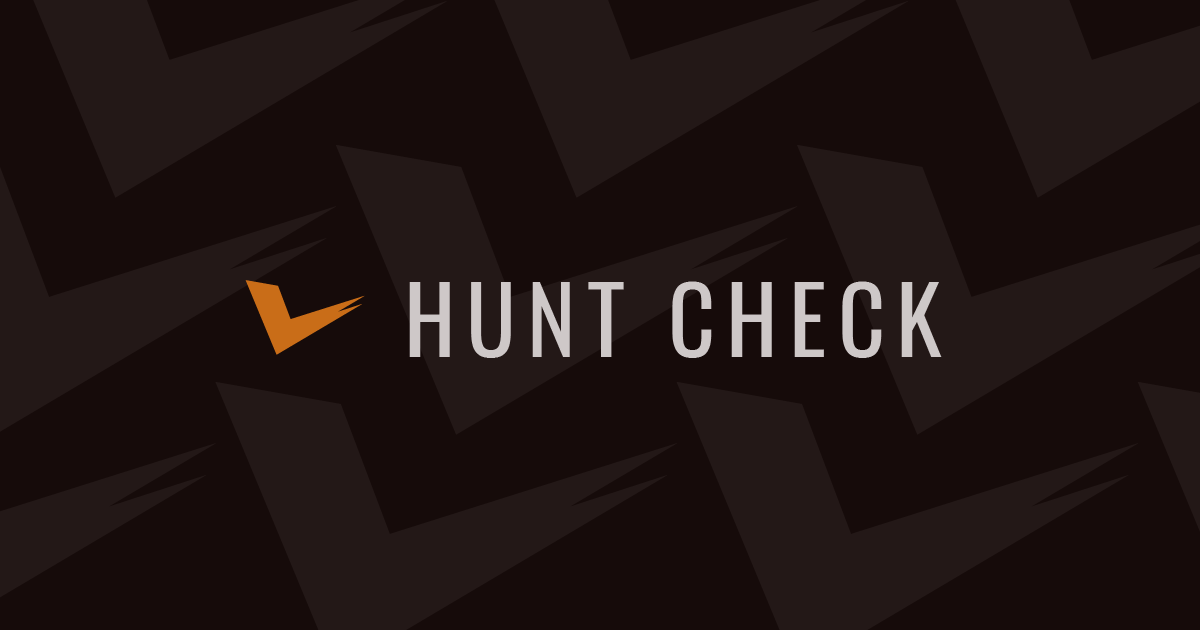
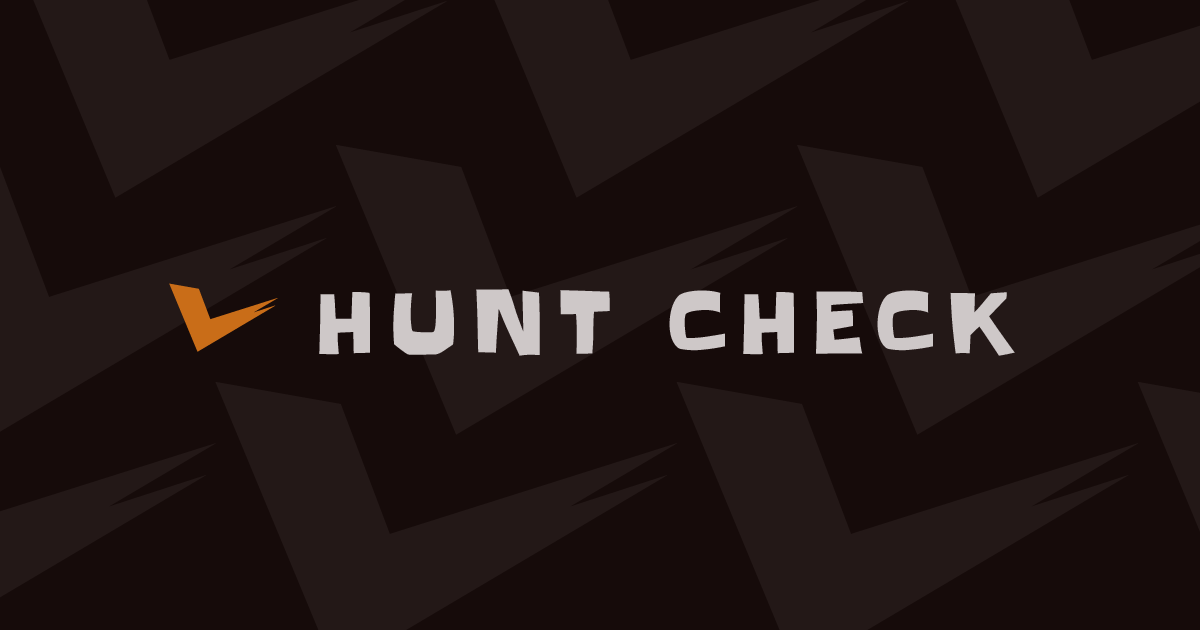
Font

Changed region(s): [[0.1233, 0.4222, 0.5242, 0.573], [0.555, 0.4222, 0.8633, 0.573]]

diff --git a/nuxt.config.js b/nuxt.config.js
@@ -78,7 +78,7 @@ module.exports = {
     link: [
       {
         rel: "stylesheet",
-        href: "https://fonts.googleapis.com/css?family=Oswald"
+        href: "https://fonts.googleapis.com/css?family=Slackey"
       },
       { rel: "apple-touch-icon", href: "/apple-touch-icon.png" },
       { rel: "icon", type: "image/x-icon", href: "/favicon.png" }

diff --git a/src/layouts/default.vue b/src/layouts/default.vue
@@ -19,10 +19,11 @@
 
 .heading.is-title {
   color: #cec8c8;
-  font-size: 150%;
-  font-family: Oswald, sans-serif;
+  font-size: 175%;
+  font-family: Slackey, sans-serif;
   text-align: center;
   text-transform: uppercase;
+  letter-spacing: 0.1em;
 }
 
 .footer {
